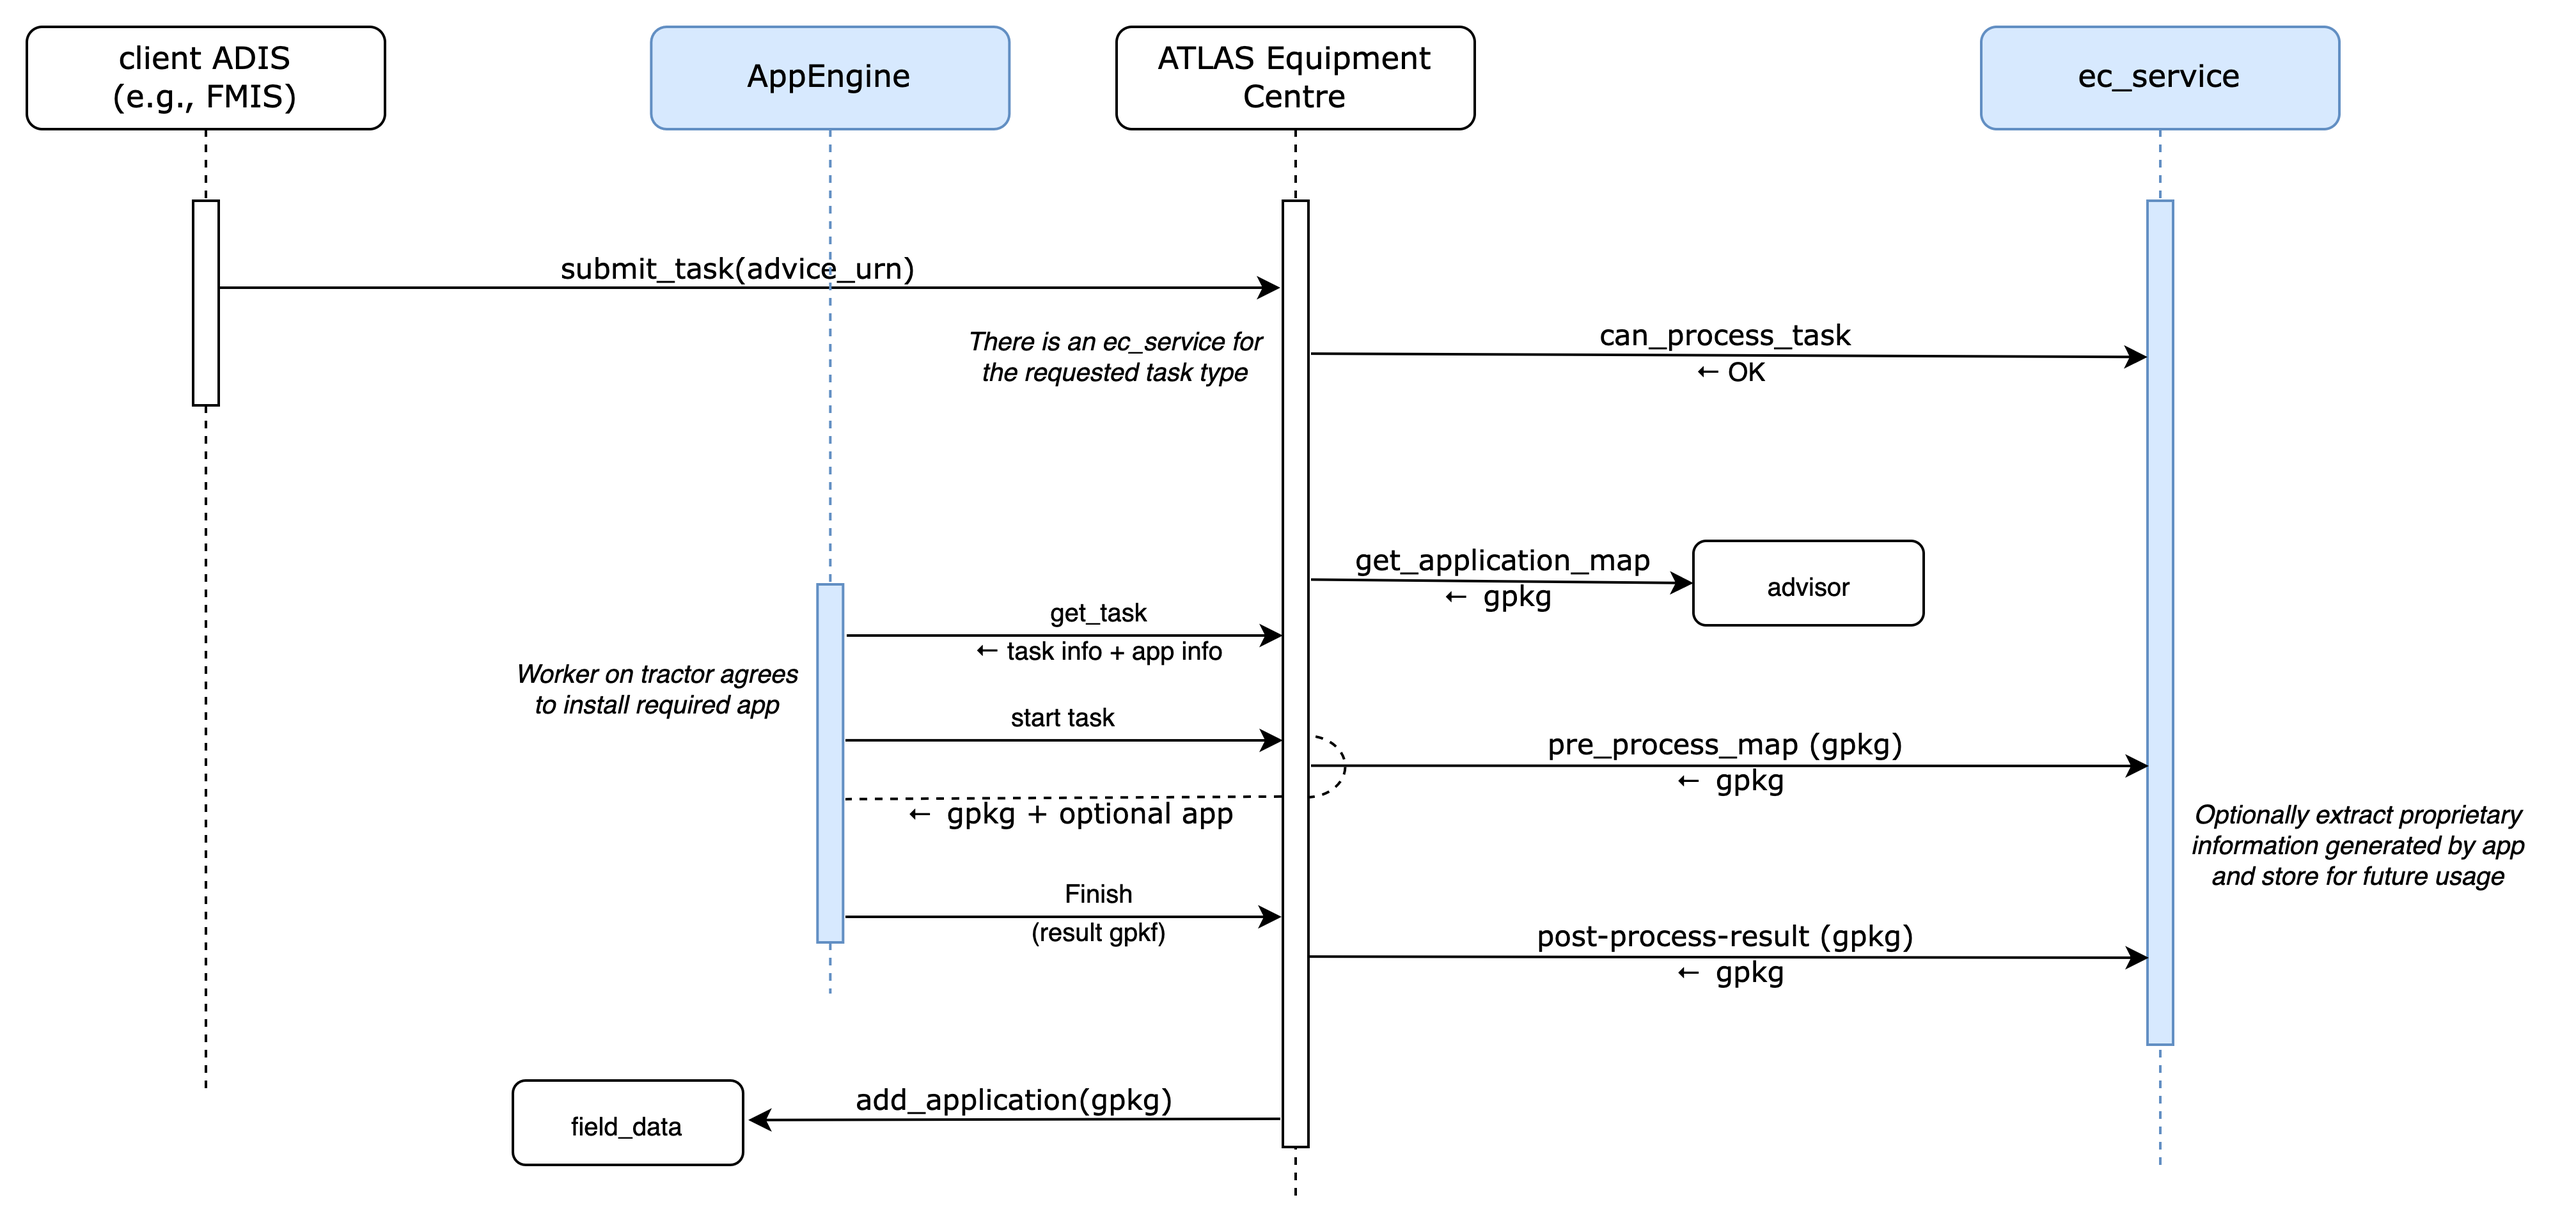
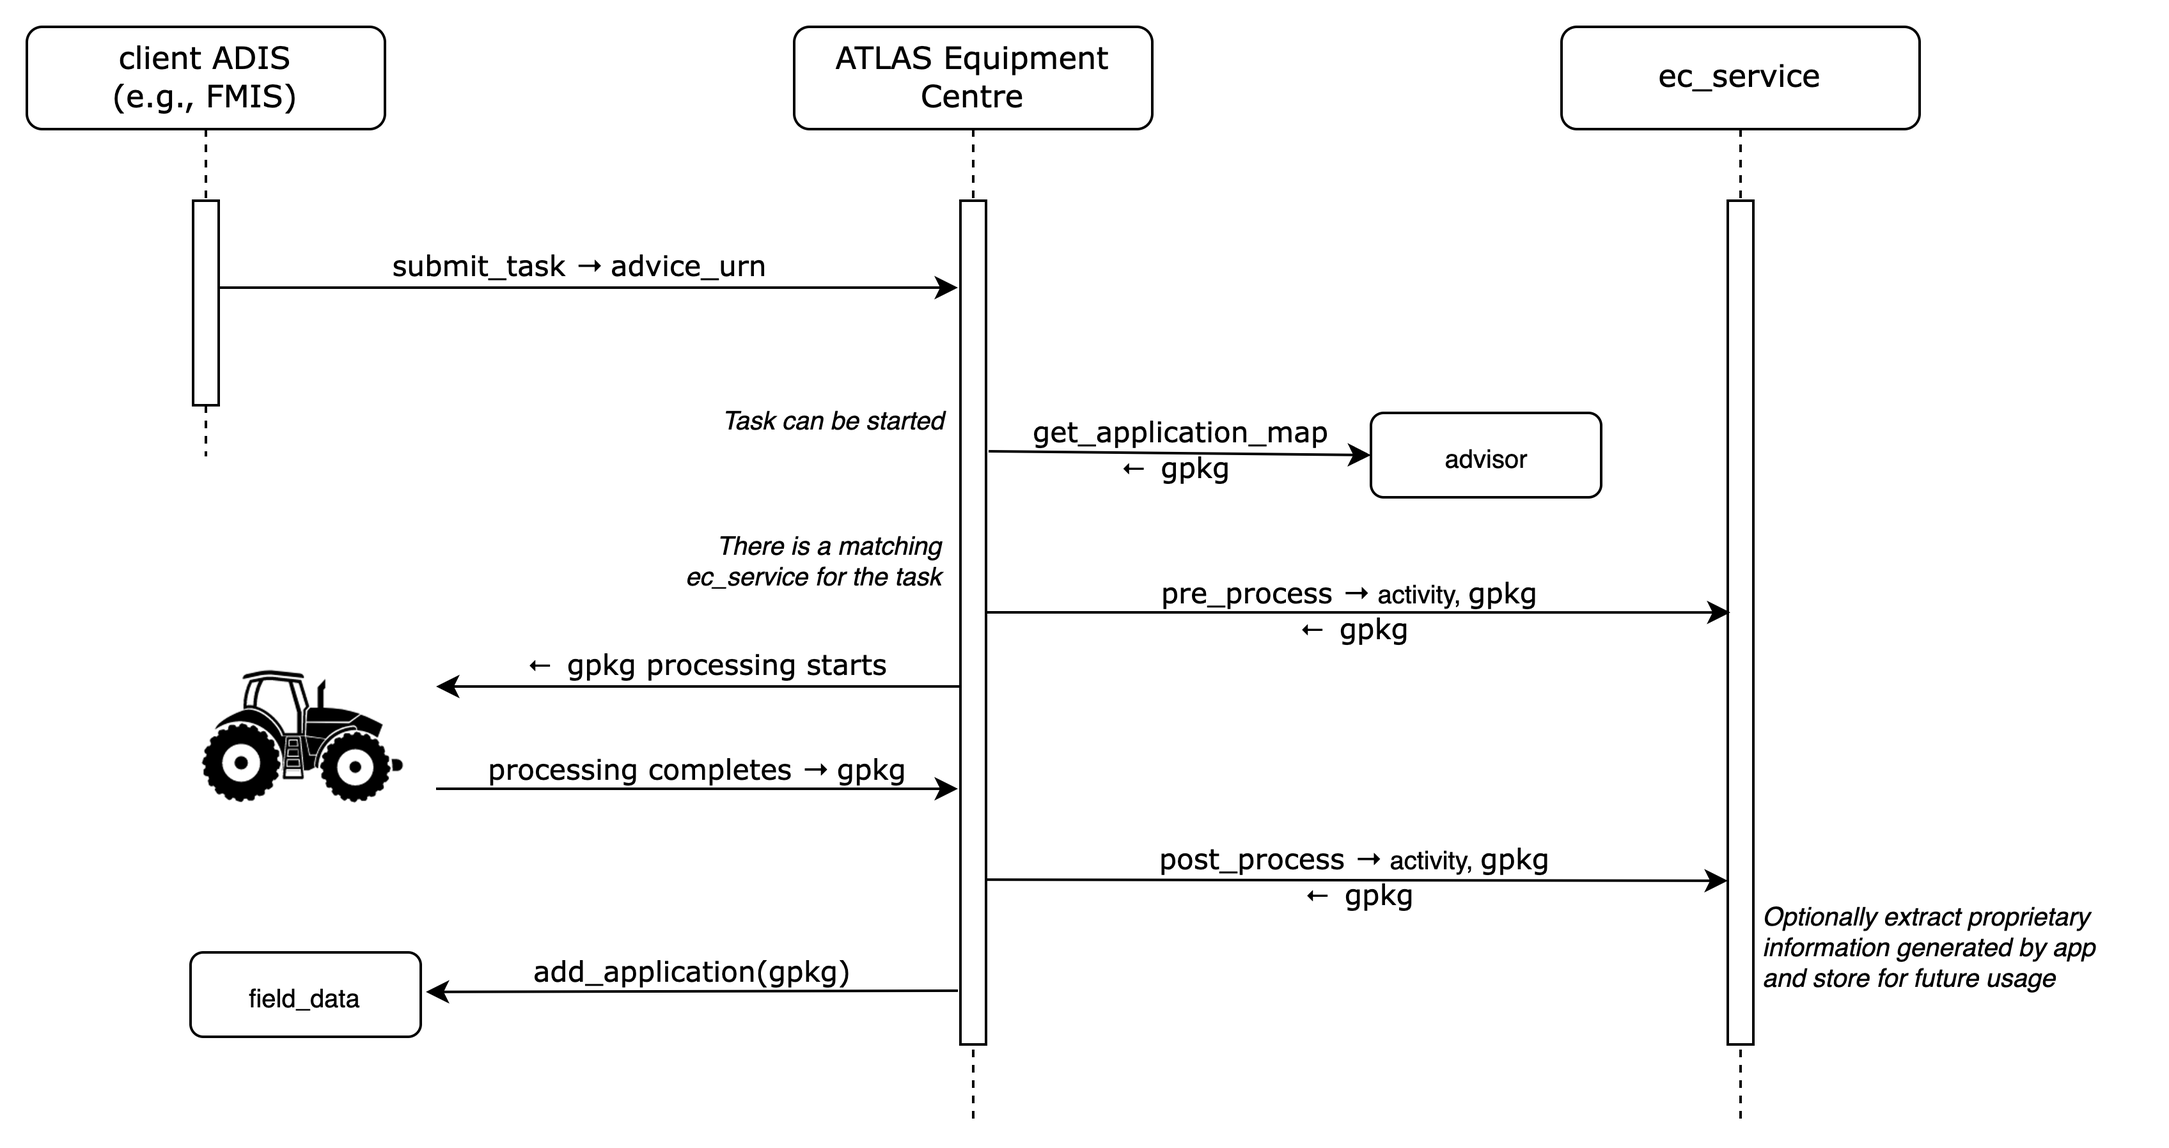
overhaul oas

diff --git a/doc.html b/doc.html
@@ -12,8 +12,7 @@
 <div class="header">
 ATLAS Service Template Specification
 Name                                                 ec_extension
-Version                                                     0.0.1
-Status                                                      DRAFT
+Version                                                     0.1.0
 Author(s)                            M. Caballero (AgriCircle AG)
 </div>
 
@@ -64,9 +63,8 @@ The ATLAS AppEngine technology enables the integration on the tractor side, and 
 This section provides a very high-level summary of the ec_extension API:
 <pre>
 Configuration Endpoints
-    Get Capabilities
-Task Management Endpoints
-    Is Task Processable
+    Get Processing Capabilities
+Application Map Processing Endpoints
     Pre-process Application Map
     Post-process Application Result
 </pre>
@@ -87,60 +85,47 @@ ec_extension services are not required to handle intense traffic from a single c
 
 <h2>5.1 Configuration Endpoints</h2>
 
-<h2>5.1.1 Get Capabilities</h2>
+<h2>5.1.1 Get Processing Capabilities</h2>
 
-Via this function, the ec_service indicates which types of tasks it is able to process and provides information about an optional companion app (download url, permissions, ...)
+Via this function, the ec_service indicates which types of tasks it is able to process, for which type(s) of equipment, and provides information about an optional companion app (download url, permissions, ...)
 <pre>
 +--------------------------------------------+
-| get_capabilities                           |
+| get_processing_capabilities                |
 +-------------+------------------------------+
 |      Inputs | -                            |
 +-------------+------------------------------+
-|     Outputs | processable task types, app  |
+|     Outputs | processable equipment types, |
+|             | task types, app              |
 +-------------+------------------------------+
 </pre>
-<h2>5.2 Task Management Endpoints</h2>
+<h2>5.2 Application Map Processing Endpoints</h2>
 
-<h2>5.2.1 Is Task Processable</h2>
-
-The ATLAS Equipment Centre will determine that an ec_service is applicable for processing a task first based on the task types it supports, and second on the results of this endpoint
-<pre>
-+--------------------------------------------+
-| can_process_task                           |
-+-------------+------------------------------+
-|      Inputs | advice_urn                   |
-+-------------+------------------------------+
-|     Outputs | yes|no                       |
-+-------------+------------------------------+
-</pre>
-If the service indicates it cannot process the task, then the ATLAS Equipment Centre will continue processing the task with the default built-in behaviour. Otherwise, the endpoints described in the following sections will be invoked.
-
-<h2>5.2.2 Pre-process Application Map</h2>
+<h2>5.2.1 Pre-process Application Map</h2>
 
 Through this function, an ec_service has the opportunity of adding proprietary information to an application map that may be of use to its companion app running in an AppEngine.
 <pre>
 +--------------------------------------------+
-| pre_process_map                            |
+| pre_process                                |
 +-------------+------------------------------+
-|      Inputs | gpkg                         |
+|      Inputs | activity info, gpkg          |
 +-------------+------------------------------+
 |     Outputs | gpkg                         |
 +-------------+------------------------------+
 </pre>
-Even if no customization is performed, the service is expected to return the same application map it received.
+If no customization is performed, the service may return 204 to indicate that the application map is to remain unchanged.
 
-<h2>5.2.3 Post-process Application Results</h2>
-Through this function, an ec_service has the opportunity to extract proprietary information from an as applied map that may have been produced by its companion app running in an AppEngine.
+<h2>5.2.2 Post-process Application Results</h2>
+Through this function, an ec_service has the opportunity to transform incoming results (which may be in the form of an "activity log") into the standard as applied map expected by the field_data service, and/or to extract proprietary information that may have been produced by a the equipment (e.g. by companion app running in an AppEngine).
 <pre>
 +--------------------------------------------+
-| post_process_results                       |
+| post_process                               |
 +-------------+------------------------------+
-|      Inputs | field urn, gpkg              |
+|      Inputs | activity info, gpkg          |
 +-------------+------------------------------+
 |     Outputs | gpkg                         |
 +-------------+------------------------------+
 </pre>
-Even if no customization is performed, the service is expected to return the same application map it received.
+If no customization is performed, the service may return 204 to indicate that the application results map is to remain unchanged.
 
 <h2>6 Data Formats</h2>
 
